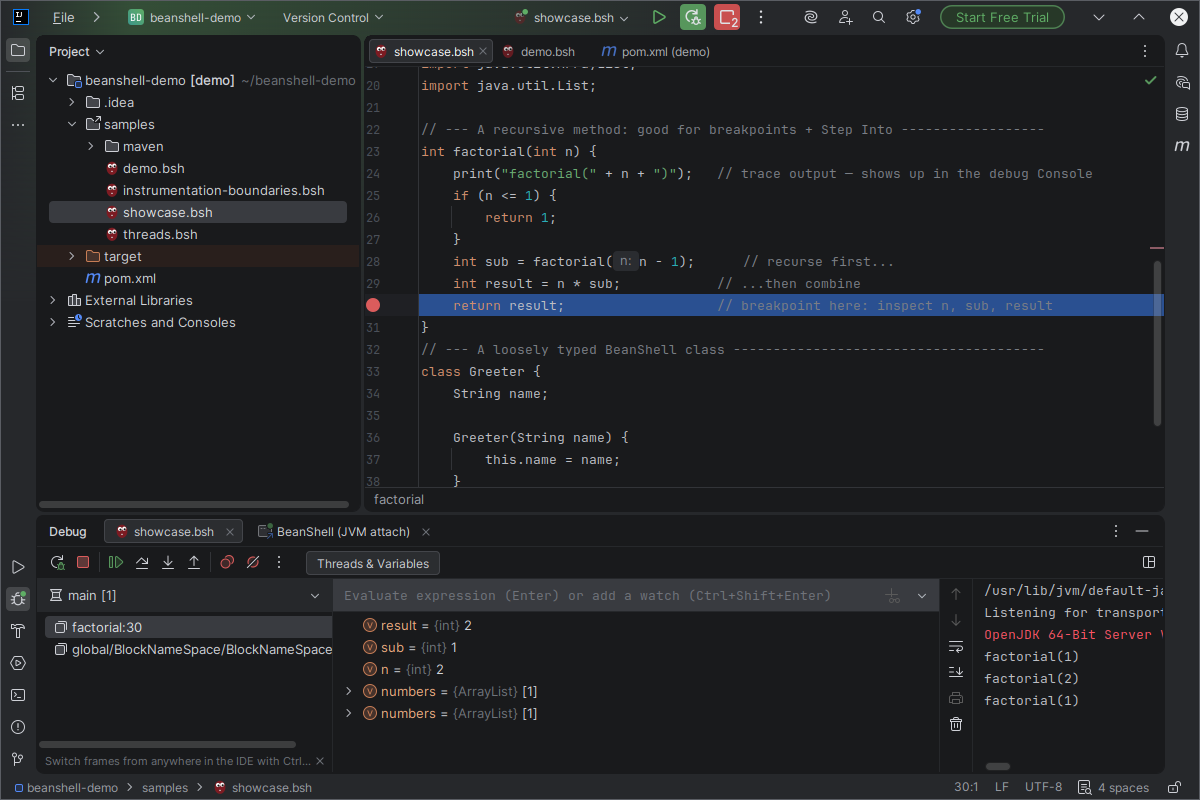
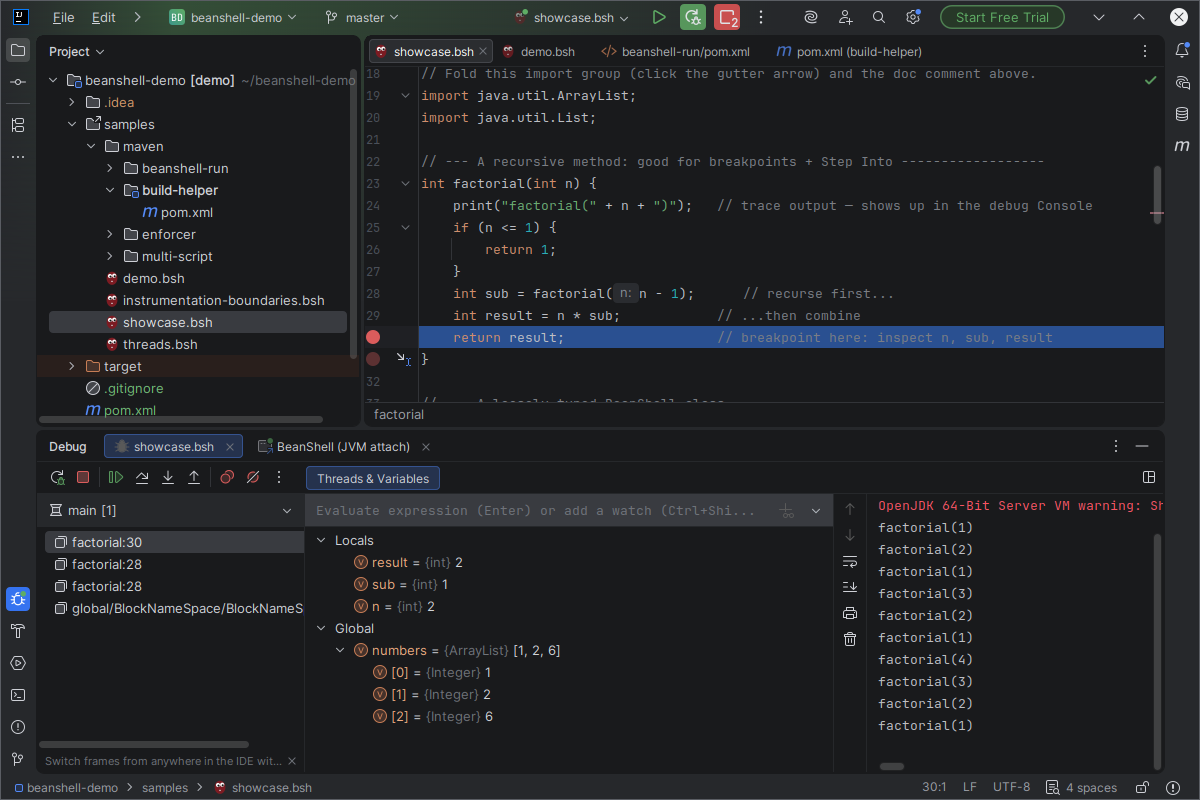
Refresh README screenshots for the nested-scope Variables view
debugger.png was stale -- captured before Locals/Global were split into
their own groups, so it showed everything flattened under one "Locals"
node including the script's own globals. Recaptured on the same
factorial sample, with Locals and Global now visibly separate.

Adds maven-debug.png, proving the same nested-scope grouping survives
running through a Maven plugin realm: build-helper's for-loop shows its
own Block level alongside Global. Both samples' inline scripts grew a
for loop + print so there is something worth stepping through and
inspecting. maven-completion.png (README already referenced it) is
added too.

Documents that genthaler:beanshell-maven-plugin is the one exception --
it actually runs on BeanShell 1.3.0 because of a dependency conflict in
its own tree, so a typed for-loop variable doesn't surface, and its own
sample script is adjusted to the untyped form that does.

diff --git a/plugin/docs/images/CAPTURING.md b/plugin/docs/images/CAPTURING.md
@@ -85,6 +85,12 @@ Line numbers assume the current `showcase.bsh` (factorial spans lines 23–31).
   offers keywords, not members, so use a bare-prefix trigger instead. Composite.
 - **maven-injection.png** — open `pom.xml`, `Ctrl+Home`. The BeanShell inside
   `<script>` shows the injection background + BSH syntax. Capture the IDE window.
+- **maven-completion.png** — same `pom.xml`, caret on a blank line inside the
+  `<script>`, bare-prefix trigger (`Ctrl+Space` after typing a letter) so the popup
+  shows in-scope names alongside keywords, the same way `completion.png` does for
+  `.bsh`. Composite. If the sample's own script has no convenient blank line, add
+  one on disk (edit + reload), capture, then remove it — same as `inspection.png`'s
+  throwaway line.
 - **navigation.png** — caret on an `append` in the chain (`57:10`), `Ctrl+Q`
   (Quick Documentation) → `java.lang.StringBuilder append(Object)`. Composite the
   popup (~375×425). Make sure no stray breakpoint dot is in the gutter.
@@ -124,6 +130,35 @@ Line numbers assume the current `showcase.bsh` (factorial spans lines 23–31).
   mouseup 1`.
 - A leftover inline "factorial" hint sometimes floats in the editor while paused;
   click an empty editor spot + `Escape` to clear it before capturing.
+- **Expand both `Locals` and `Global`.** Since the scope redesign the Variables
+  tree shows a group per namespace level rather than flattening everything into
+  one, so this is the shot's whole point: `Locals` holds `factorial`'s own
+  `n`/`sub`/`result`, `Global` holds the script's top-level state
+  (`greeter`/`numbers`/…) — both auto-expanded, and neither repeating the other's
+  variables. Scroll so both groups are visible in the same capture.
+
+## Debugging inside Maven (maven-debug.png)
+
+Same idea as `debugger.png`, but through a Maven build —
+`samples/maven/build-helper/pom.xml` (the `build-helper-maven-plugin`'s
+`bsh-property` goal; the symlinked demo project sees it too). Create a temporary
+run configuration for the `validate` phase the same way (`Ctrl+Shift+F10` on the
+`pom.xml`), then debug it. Breakpoint on
+`print("Building " + name + " step " + i);`, inside the `for` loop.
+
+**Expand both `Block` and `Global`.** `Block` holds the `for` loop's own `i`;
+`Global` holds everything the script and the plugin bind at the top level —
+`name`, `total`, plus the plugin's own `project`/`session`/`log`/`logger`/
+`settings`/`model`. That is the shot's whole point: the nested scope grouping
+(see `debugger.png`) survives running inside a Maven plugin realm, not just a
+plain agent launch.
+
+**`genthaler:beanshell-maven-plugin`** (the `samples/maven/beanshell-run` sample)
+is the exception — it actually runs on BeanShell 1.3.0, not 2.0b6, because of a
+transitive dependency conflict in that specific plugin's own dependency tree (see
+[`DEBUGGING.md`](../DEBUGGING.md)'s Maven section), so its `for` loop does not
+split out its own `Block` level the same way. Not worth a screenshot of its own;
+the prose there covers it.
 
 ## Cleanup after a session
 

diff --git a/plugin/docs/DEBUGGING.md b/plugin/docs/DEBUGGING.md
@@ -52,6 +52,18 @@ in the pom, with `-javaagent` on its JVM. The agent reaches BeanShell inside a M
 plugin realm because its hook sits on the **bootstrap** classpath — the case that
 requirement was designed for in the first place.
 
+**`genthaler:beanshell-maven-plugin` specifically runs on BeanShell 1.3.0, not the
+version it declares.** It depends directly on `org.beanshell:bsh:2.0b5`, but also pulls
+`org.codehaus.plexus:plexus-bsh-factory` transitively, whose own dependency is
+`bsh:bsh:1.3.0` — a different Maven coordinate for the same package, so nothing dedupes
+it against the 2.0b5 the plugin asked for. Whichever jar the plugin realm's classloader
+resolves first wins the whole `bsh.*` package; `-Xlog:class+load` against a real build
+confirms it is the 2003-era 1.3.0. A typed variable declared in a `for`-loop's own init
+(`for (int i = 1; ...)`) does not surface the same way it does on 2.0b5/2.0b6 — an
+untyped one (`for (i = 1; ...)`) does. Nothing in this repository can fix another
+plugin's own dependency tree; a script meant to be debugged through this particular
+plugin should stick to untyped locals.
+
 The agent is preferred because rewriting is visible to the user: the injected call
 becomes a real statement, so it shows up in `getInvocationText()` and therefore in
 error messages and stack traces. Rewriting also cannot reach scripts the plugin

diff --git a/plugin/README.md b/plugin/README.md
@@ -153,8 +153,10 @@ launch it in Debug):
 | Syntax highlighting & Structure view                | Code completion (keywords + in-scope names)   |
 | ![Navigation](docs/images/navigation.png)           | ![Debugger](docs/images/debugger.png)         |
 | Quick documentation into Java on a chained member   | Debugger: variables + console at a breakpoint |
-| ![Maven injection](docs/images/maven-injection.png) | ![Inspection](docs/images/inspection.png)     |
-| BeanShell injected into `pom.xml`                   | Inspection quick-fix for an unused variable   |
+| ![Maven injection](docs/images/maven-injection.png) | ![Maven completion](docs/images/maven-completion.png) |
+| BeanShell injected into `pom.xml`                   | Completion inside an injected Maven `<script>` |
+| ![Inspection](docs/images/inspection.png)           | ![Maven debugger](docs/images/maven-debug.png) |
+| Inspection quick-fix for an unused variable         | Debugger: nested scopes through a Maven build |
 
 ## Known limitations
 
